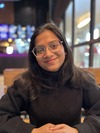
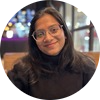
lazy load fix-1

diff --git a/src/Pages/Home/Home.css b/src/Pages/Home/Home.css
@@ -29,12 +29,8 @@
     display: flex;
     justify-content: center;
     align-items: center;
-    background-image: url(/src/assets/pfp-blur.jpg);
-    background-position: center;
-    background-size: cover;
+    background-color: white;
     border-radius: 100%;
-    /* min-height: 500px; */
-    /* min-width: 500px; */
 }
 
 .lazy-image{
